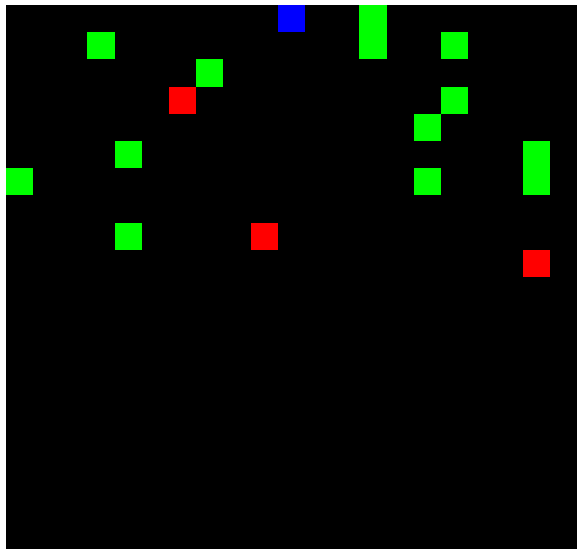
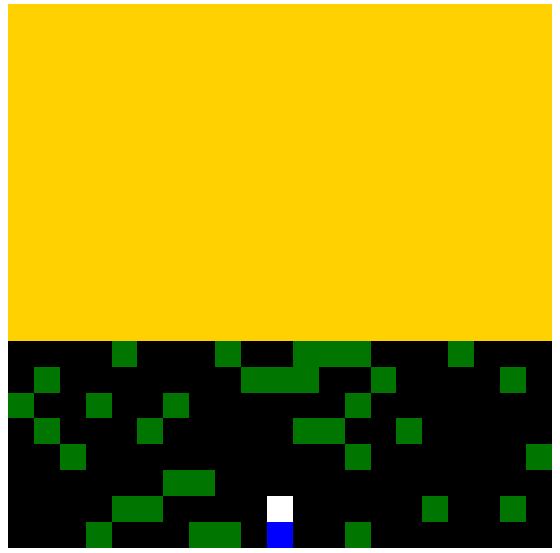
add global observation option

diff --git a/src/gym_cpr_grid/gym_cpr_grid/cpr_grid.py b/src/gym_cpr_grid/gym_cpr_grid/cpr_grid.py
@@ -24,22 +24,22 @@ class CPRGridEnv(MultiAgentEnv, gym.Env):
     RESOURCE_COLLECTION_REWARD = 1
     GIFTING_REWARD = 1
 
-    # Rendering option
-    FIGSIZE = (12, 10)
-    OBSERVATION_SHADOW_ID = 3
-
     # Colors
     GRID_CELL_COLORS = {
+        utils.GridCell.OUTSIDE: "gold",
         utils.GridCell.EMPTY: "black",
         utils.GridCell.RESOURCE: "green",
         utils.GridCell.AGENT: "red",
-        OBSERVATION_SHADOW_ID: "silver",
+        utils.GridCell.ORIENTATION: "silver",
     }
     FOV_OWN_AGENT_COLOR = "blue"
     COLORMAP = colors.ListedColormap(list(GRID_CELL_COLORS.values()))
     COLOR_BOUNDARIES = colors.BoundaryNorm(
         utils.GridCell.values() + [utils.GridCell.size()], utils.GridCell.size()
     )
+
+    # Rendering option
+    FIGSIZE = (12, 10)
 
     # Gym variables
     metadata = {"render.modes": ["human", "rgb_array"]}
@@ -51,6 +51,7 @@ class CPRGridEnv(MultiAgentEnv, gym.Env):
         grid_height,
         fov_squares_front=20,
         fov_squares_side=10,
+        global_obs=False,
         tagging_ability=True,
         tagging_steps=25,
         beam_squares_front=10,
@@ -68,6 +69,12 @@ class CPRGridEnv(MultiAgentEnv, gym.Env):
         assert gifting_mechanism is None or utils.GiftingMechanism.is_valid(
             gifting_mechanism
         ), "The given gifting mechanism is not valid"
+        assert (
+            not global_obs
+            and fov_squares_front is not None
+            and fov_squares_side is not None
+            and fov_squares_front == fov_squares_side * 2 + 1
+        ) or global_obs, "You can either use a global observation or a local one (with specified FOV parameters)"
         super(CPRGridEnv, self).__init__()
 
         # Parameters
@@ -76,6 +83,7 @@ class CPRGridEnv(MultiAgentEnv, gym.Env):
         self.grid_height = grid_height
         self.fov_squares_front = fov_squares_front
         self.fov_squares_side = fov_squares_side
+        self.global_obs = global_obs
         self.tagging_ability = tagging_ability
         self.tagging_steps = tagging_steps
         self.beam_squares_front = beam_squares_front
@@ -91,9 +99,6 @@ class CPRGridEnv(MultiAgentEnv, gym.Env):
         )
         self.gifting_fixed_budget_size = gifting_fixed_budget_size
         self.add_social_outcome_metrics = add_social_outcome_metrics
-        assert (
-            self.fov_squares_front == self.fov_squares_side * 2 + 1
-        ), "FOV should be squared"
 
         # Gym requirements
         self.action_space = utils.CPRGridActionSpace()
@@ -101,11 +106,13 @@ class CPRGridEnv(MultiAgentEnv, gym.Env):
             low=0,
             high=1,
             shape=(
-                self.fov_squares_front,
-                self.fov_squares_side * 2 + 1,
+                self.fov_squares_front if not self.global_obs else self.grid_height,
+                self.fov_squares_side * 2 + 1
+                if not self.global_obs
+                else self.grid_width,
                 3,
             ),
-            dtype=np.uint8,
+            dtype=np.float32,
         )
 
         # Dynamic variables
@@ -579,35 +586,55 @@ class CPRGridEnv(MultiAgentEnv, gym.Env):
         and convert it into an RGB image
         """
         # Extract the FOV and convert it to 3 channels
-        fov = self._extract_fov(agent_handle)
+        fov = self.grid.copy()
+        if not self.global_obs:
+            fov = self._extract_fov(agent_handle)
         fov = np.stack((fov,) * 3, axis=-1)
 
-        # Set colors for resources and agents
+        # Set color for resources
         fov = np.where(
             fov == utils.GridCell.RESOURCE,
             colors.to_rgb(self.GRID_CELL_COLORS[utils.GridCell.RESOURCE]),
             fov,
         )
+
+        # Set color for opponents
         fov = np.where(
             fov == utils.GridCell.AGENT,
             colors.to_rgb(self.GRID_CELL_COLORS[utils.GridCell.AGENT]),
             fov,
         )
-        fov[0, self.fov_squares_side] = colors.to_rgb(self.FOV_OWN_AGENT_COLOR)
+
+        # Set color for padding cells
+        fov = np.where(
+            fov == utils.GridCell.OUTSIDE,
+            colors.to_rgb(self.GRID_CELL_COLORS[utils.GridCell.OUTSIDE]),
+            fov,
+        )
+
+        # Set color for current agent
+        x = (
+            self.fov_squares_side
+            if not self.global_obs
+            else self.agent_positions[agent_handle].x
+        )
+        y = 0 if not self.global_obs else self.agent_positions[agent_handle].y
+        fov[y, x] = colors.to_rgb(self.FOV_OWN_AGENT_COLOR)
 
         # Rotate again so as to have a different observation
-        # depending on the agent's orientation
-        agent_position = self.agent_positions[agent_handle]
-        k = (
-            1
-            if agent_position.o == utils.AgentOrientation.RIGHT
-            else 2
-            if agent_position.o == utils.AgentOrientation.UP
-            else 3
-            if agent_position.o == utils.AgentOrientation.LEFT
-            else 0
-        )
-        fov = np.rot90(fov, k=k).copy()
+        # depending on the agent's orientation (only for local observations)
+        if not self.global_obs:
+            agent_position = self.agent_positions[agent_handle]
+            k = (
+                1
+                if agent_position.o == utils.AgentOrientation.RIGHT
+                else 2
+                if agent_position.o == utils.AgentOrientation.UP
+                else 3
+                if agent_position.o == utils.AgentOrientation.LEFT
+                else 0
+            )
+            fov = np.rot90(fov, k=k).copy()
 
         return fov
 
@@ -707,7 +734,7 @@ class CPRGridEnv(MultiAgentEnv, gym.Env):
             rotated_y,
             squares_side,
             squares_front + k % 2,
-            pad_value=pad_value or utils.GridCell.EMPTY.value,
+            pad_value=pad_value or utils.GridCell.OUTSIDE.value,
         )
 
         # Extract the FOV
@@ -857,7 +884,7 @@ class CPRGridEnv(MultiAgentEnv, gym.Env):
         """
         Plot the given observation as an RGB image
         """
-        self.plot(obs * 255.0, map_colors=False)
+        self.plot(obs, map_colors=False)
         plt.show()
 
     def render(self, mode="human", ticks=False):

diff --git a/src/gym_cpr_grid/gym_cpr_grid/utils.py b/src/gym_cpr_grid/gym_cpr_grid/utils.py
@@ -278,6 +278,7 @@ class GridCell(CustomIntEnum):
     either an agent or a resource or an empty cell
     """
 
+    OUTSIDE = -1
     EMPTY = 0
     RESOURCE = 1
     AGENT = 2

diff --git a/README.md b/README.md
@@ -15,6 +15,7 @@ The environment can be customized with the following parameters, to be given as 
 - `grid_height`: height of the environment's grid (y-axis)
 - `fov_squares_front`: how many grid squares in front of the agent to consider for local observation extraction (defaults to 20)
 - `fov_squares_side`: how many grid squares on each side of the agent to consider for local observation extraction (defaults to 10)
+- `global_obs`: whether or not to use the entire grid as observation or a local FOV (defaults to false)
 - `tagging_ability`: enable or disable the tagging action (defaults to enabled)
 - `tagging_steps`: how many time-out steps for agents tagged by the laser beam (defaults to 25)
 - `beam_squares_front`: range of the laser beam on the y-axis (defaults to 10)
